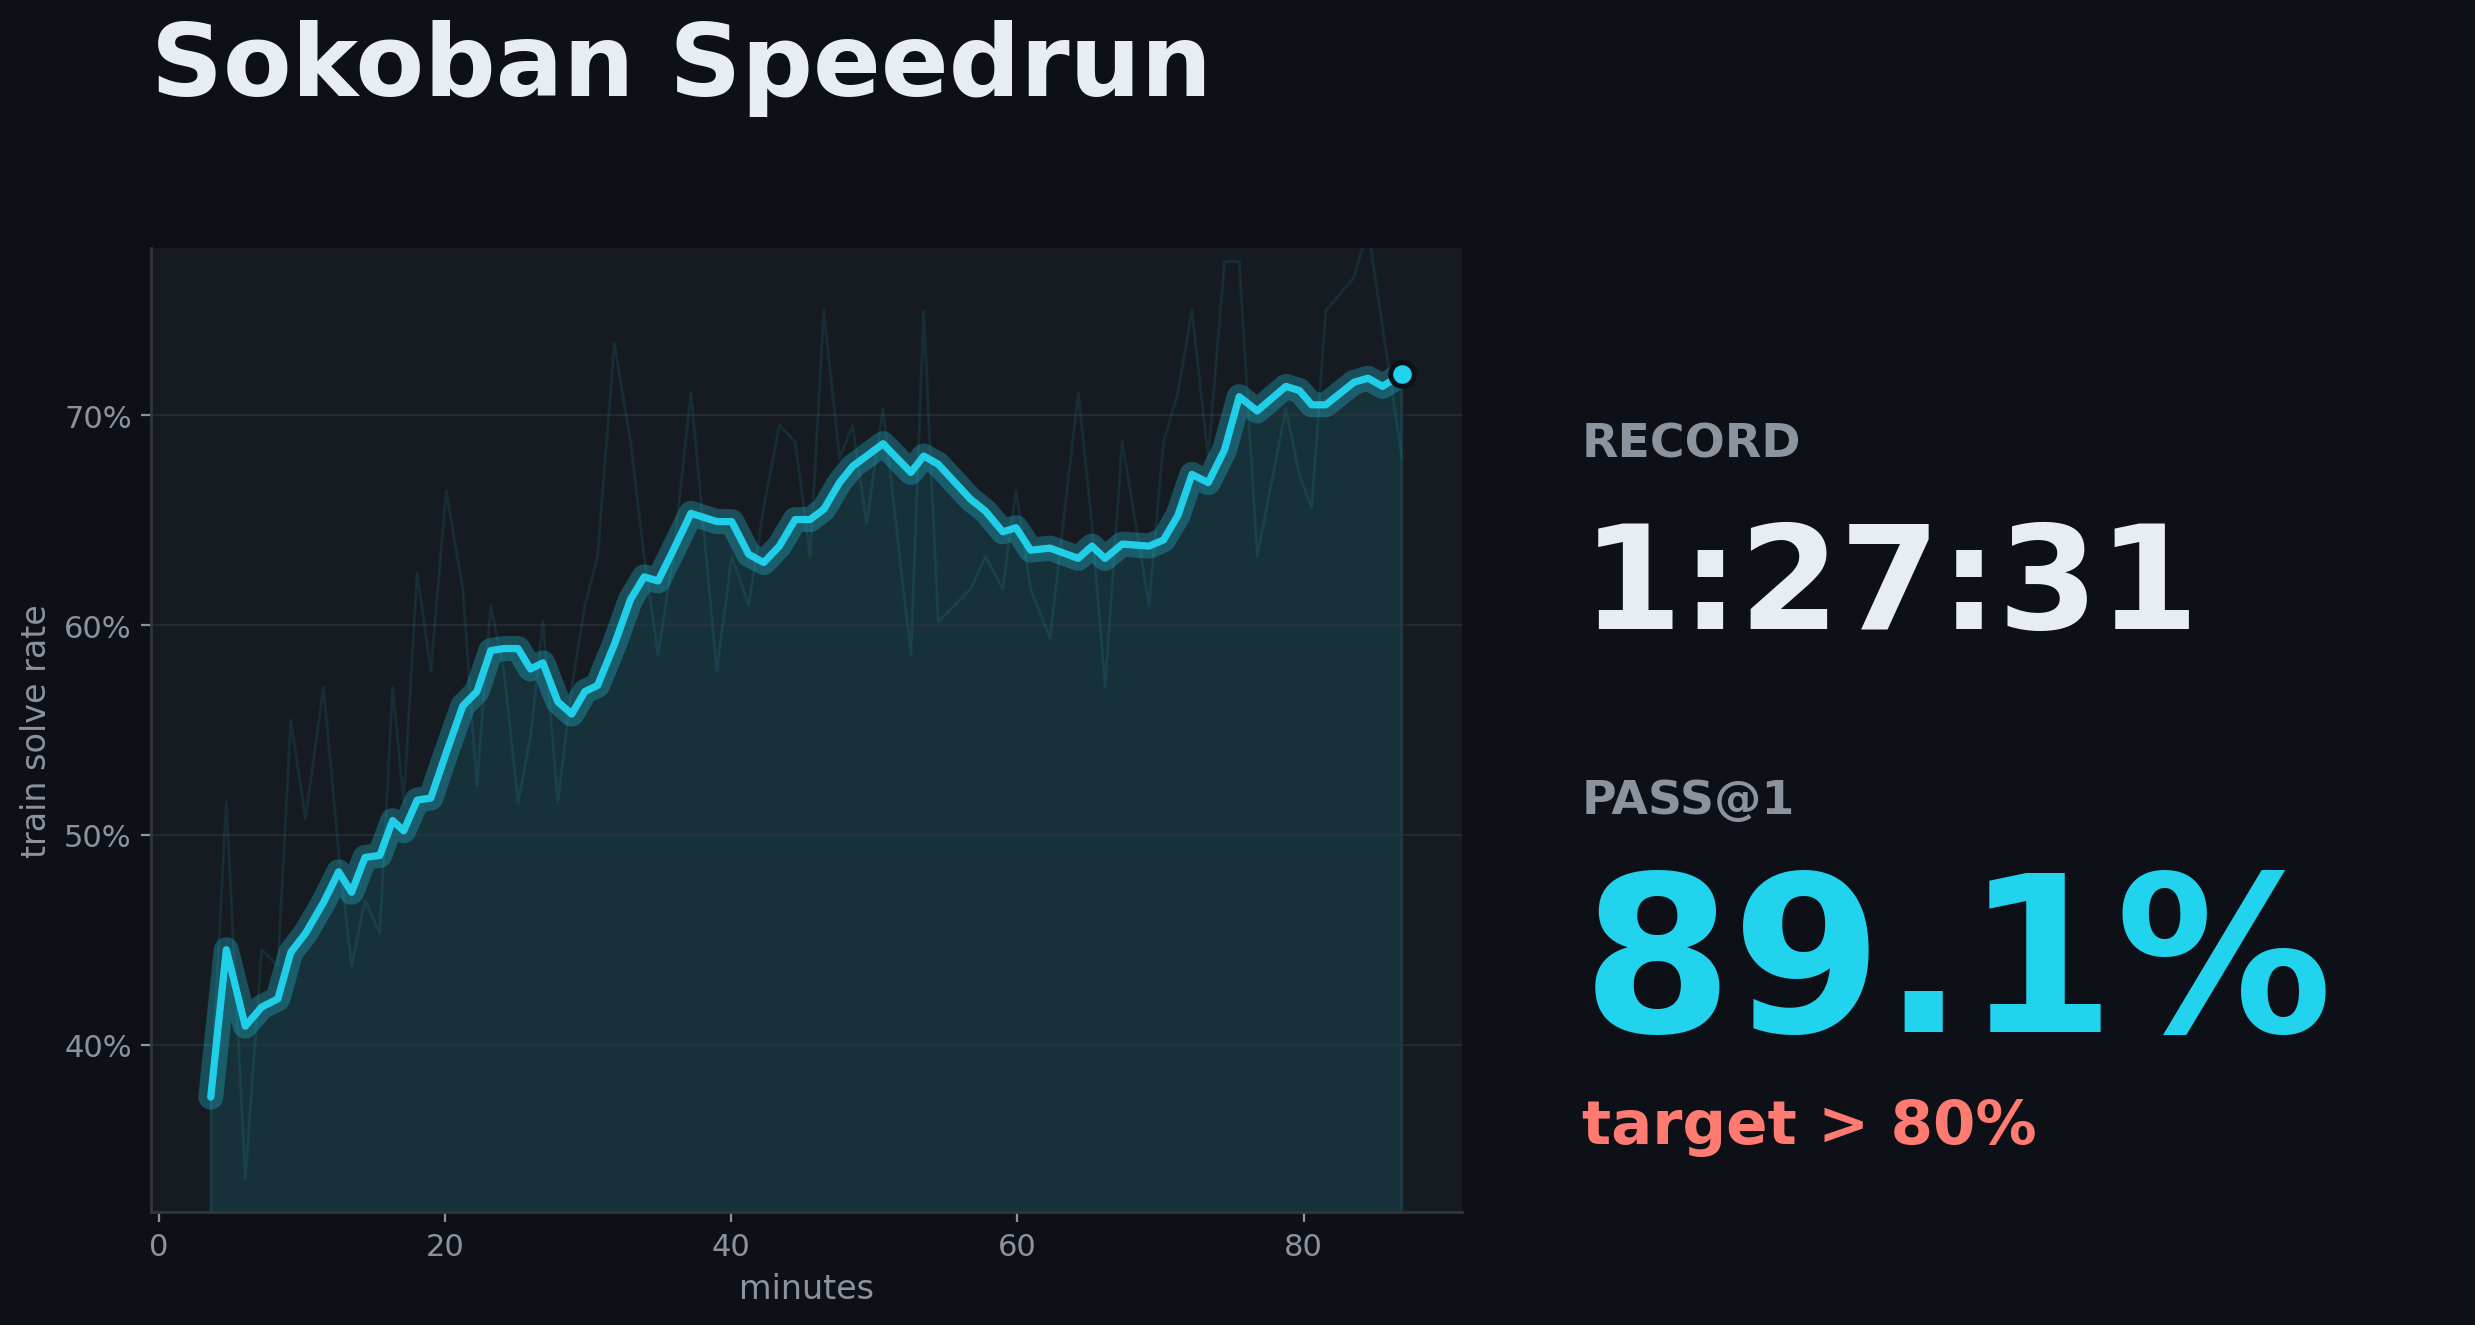
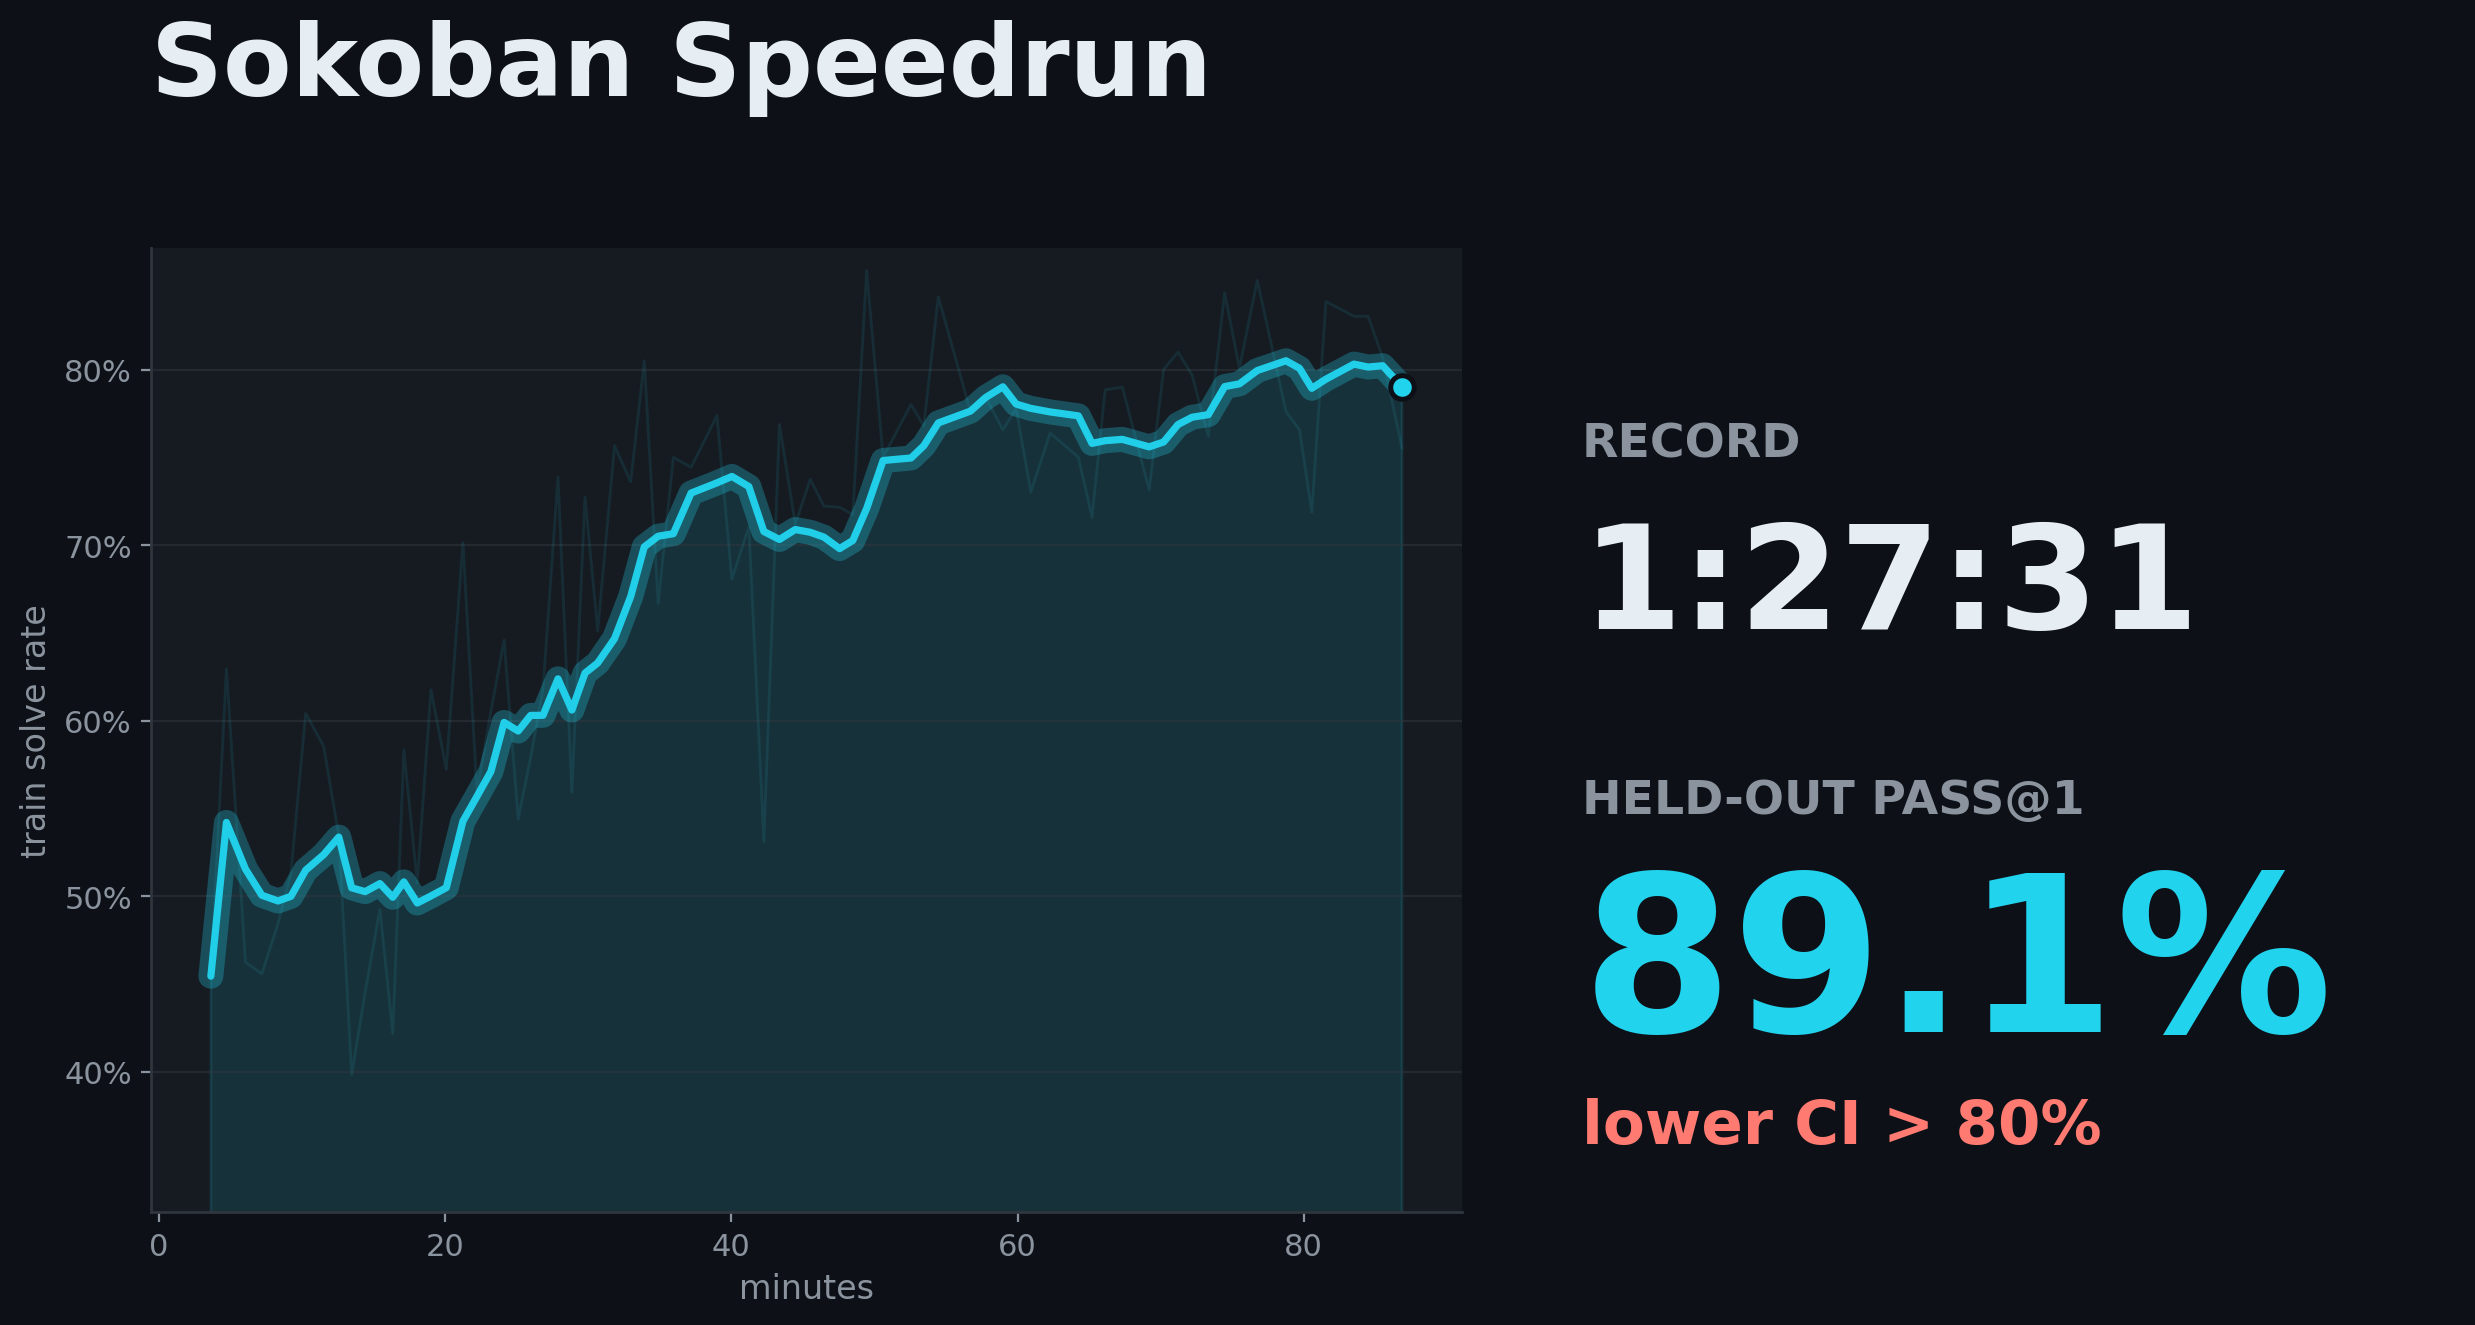
Update README.md to specify held-out evaluation metrics and improve clarity
- Changed terminology from "pass@1" to "held-out eval pass@1" for precision in metric description.
- Updated the results table header and corresponding text to reflect the new terminology.
- Added a blank line at the end of the file for consistency.

diff --git a/records/2026-06-17_01_grpo/README.md b/records/2026-06-17_01_grpo/README.md
@@ -4,17 +4,17 @@
 
 - **Recipe:** 8 samples per puzzle, 16 puzzles per step, zero-variance groups filtered.
 - **Schedule:** LR `1.6e-6`, 5-step warmup, linear decay to a non-zero 15% floor.
-- **Result:** pass@1 **0.891**, pass@8 **1.00**, record time **1:27:31**.
+- **Result:** held-out eval pass@1 **0.891**, pass@8 **1.00**, record time **1:27:31**.
 
 <!-- BEGIN AUTO-GENERATED by make_record_report.py — edits inside will be overwritten -->
 
 ## Results
 
-| seed | pass@1 | 95% CI | record clock | FLOPs |
+| seed | held-out eval pass@1 | 95% CI | record clock | FLOPs |
 |---|---|---|---|---|
 | seed43 | 0.8912 | [0.8588, 0.9213] | 1:27:31 | 1.251 EFLOP |
 
-**pass@1 0.8912, lower 95% CI 0.8588 vs TARGET 0.8: CLEARS.**
+**Held-out eval pass@1 0.8912, lower 95% CI 0.8588 vs TARGET 0.8: CLEARS.**
 
 ![hero](plots/hero.png)
 
